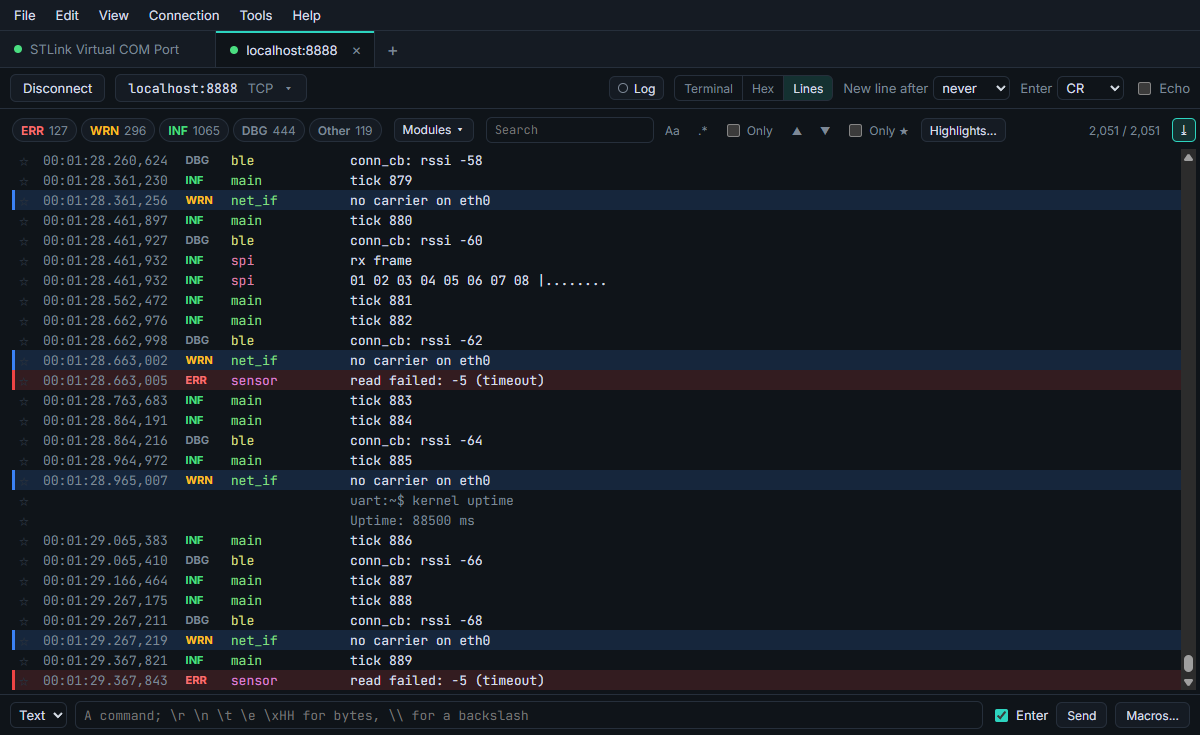
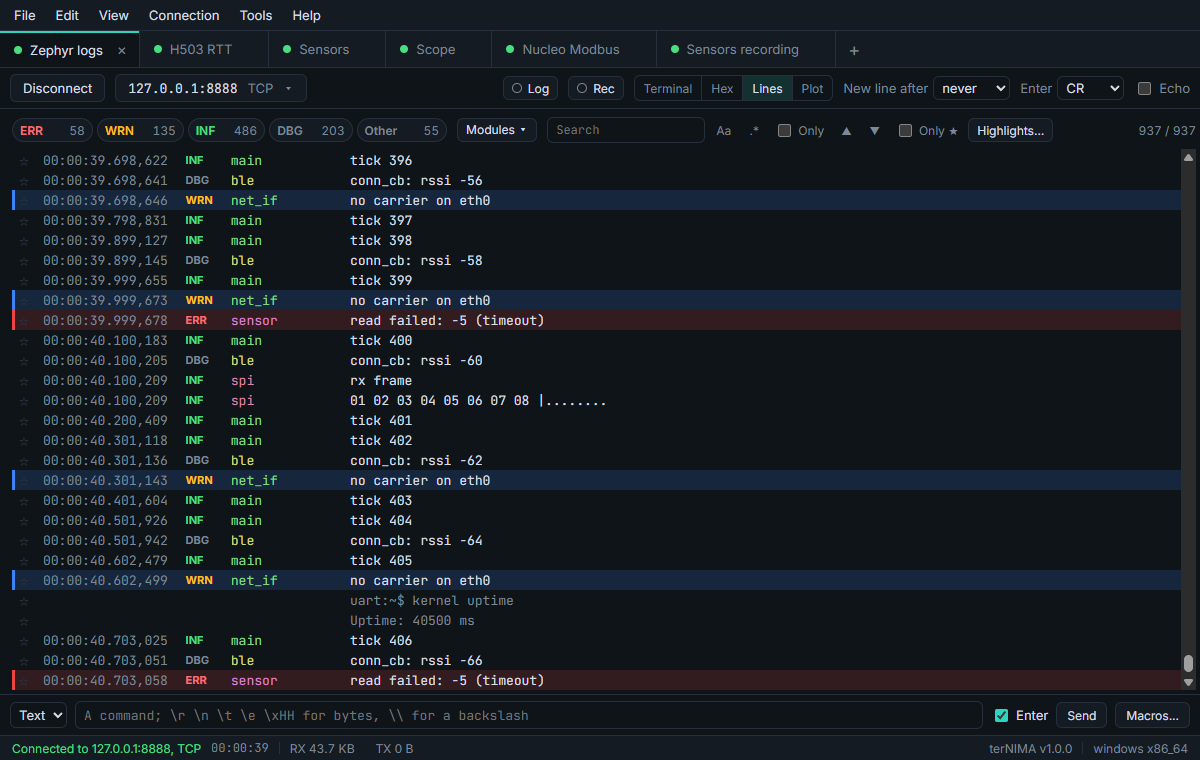
terNIMA's screenshots one after another, every 2 seconds
The one screenshot of terNIMA is seven now, all from 1.0.0 with the same
tabs: Zephyr logs, RTT on an STM32H503, a live plot, an FFT, the Modbus
Tester and Traffic, and a recording played back. The next one fades in
every 2 seconds, each with its caption; dots go to any of them and a
button pauses them. They hold while the pointer or the keyboard is on
them and while they are off screen, and start paused for those who ask
for less motion. Without JavaScript the first one stays.

diff --git a/assets/site.js b/assets/site.js
@@ -1,9 +1,10 @@
 /*
  * nimaltd.github.io: the theme switch, the menu on phones, the platform
- * picker, the copy buttons, terNIMA's download for this computer, and live
- * numbers and links from GitHub. The page works without any of it: every
- * platform is then listed one under another, and the numbers and the
- * download links in the HTML stay as they are.
+ * picker, the copy buttons, terNIMA's screenshots one after another and its
+ * download for this computer, and live numbers and links from GitHub. The
+ * page works without any of it: every platform is then listed one under
+ * another, the first screenshot stays, and the numbers and the download
+ * links in the HTML stay as they are.
  */
 
 (function () {
@@ -185,6 +186,89 @@
       say("Could not copy. Select the text instead.");
     });
   });
+
+  /* ---------------------------------------------------------------------- */
+  /* terNIMA's screenshots: the next one every 2 seconds                    */
+  /* ---------------------------------------------------------------------- */
+
+  var SLIDE_MS = 2000;
+  var shots = document.getElementById("shots");
+
+  if (shots) {
+    var slides = Array.prototype.slice.call(shots.querySelectorAll(".slide"));
+    var slideCaption = shots.querySelector(".slide-caption");
+    var slideTools = shots.querySelector(".slide-tools");
+    var current = 0;
+    var slideTimer = 0;
+    /* Paused by its button; from the start for those who ask for less motion. */
+    var paused = window.matchMedia && window.matchMedia("(prefers-reduced-motion: reduce)").matches;
+    /* Held while the pointer or the keyboard is on it, and while it is off screen. */
+    var hovered = false;
+    var focused = false;
+    var onScreen = true;
+
+    var dots = slides.map(function (slide, index) {
+      var dot = document.createElement("button");
+      dot.type = "button";
+      dot.className = "slide-dot";
+      dot.setAttribute("aria-label", "Show " + slide.getAttribute("data-caption"));
+      dot.addEventListener("click", function () {
+        show(index);
+        run();
+      });
+      slideTools.appendChild(dot);
+      return dot;
+    });
+
+    var pauseButton = document.createElement("button");
+    pauseButton.type = "button";
+    pauseButton.className = "slide-pause";
+    pauseButton.innerHTML = '<svg class="ico"><use href="#i-pause"/></svg>';
+    pauseButton.addEventListener("click", function () {
+      paused = !paused;
+      showPaused();
+      run();
+    });
+    slideTools.appendChild(pauseButton);
+
+    function showPaused() {
+      pauseButton.setAttribute("aria-label", paused ? "Play the screenshots" : "Pause the screenshots");
+      pauseButton.querySelector("use").setAttribute("href", paused ? "#i-play" : "#i-pause");
+    }
+
+    function show(index) {
+      slides[current].classList.remove("on");
+      dots[current].removeAttribute("aria-current");
+      current = (index + slides.length) % slides.length;
+      slides[current].classList.add("on");
+      dots[current].setAttribute("aria-current", "true");
+      slideCaption.textContent = slides[current].getAttribute("data-caption");
+    }
+
+    /* Starts the clock again, if nothing holds it. */
+    function run() {
+      clearInterval(slideTimer);
+      if (!paused && !hovered && !focused && onScreen) {
+        slideTimer = setInterval(function () { show(current + 1); }, SLIDE_MS);
+      }
+    }
+
+    shots.addEventListener("mouseenter", function () { hovered = true; run(); });
+    shots.addEventListener("mouseleave", function () { hovered = false; run(); });
+    shots.addEventListener("focusin", function () { focused = true; run(); });
+    shots.addEventListener("focusout", function () { focused = false; run(); });
+
+    if (window.IntersectionObserver) {
+      new IntersectionObserver(function (entries) {
+        onScreen = entries[0].isIntersecting;
+        run();
+      }).observe(shots);
+    }
+
+    show(0);
+    showPaused();
+    run();
+  }
 
   /* ---------------------------------------------------------------------- */
   /* terNIMA: the download for this computer first                          */

diff --git a/index.html b/index.html
@@ -54,6 +54,8 @@
   <symbol id="i-activity" viewBox="0 0 24 24"><path d="M22 12h-4l-3 9L9 3l-3 9H2"/></symbol>
   <symbol id="i-binary" viewBox="0 0 24 24"><rect width="4" height="6" x="14" y="14" rx="2"/><rect width="4" height="6" x="6" y="4" rx="2"/><path d="M6 20h4M14 10h4M6 14h2v6M14 4h2v6"/></symbol>
   <symbol id="i-network" viewBox="0 0 24 24"><rect width="6" height="6" x="16" y="16" rx="1"/><rect width="6" height="6" x="2" y="16" rx="1"/><rect width="6" height="6" x="9" y="2" rx="1"/><path d="M5 16v-3a1 1 0 0 1 1-1h12a1 1 0 0 1 1 1v3M12 12V8"/></symbol>
+  <symbol id="i-pause" viewBox="0 0 24 24"><rect width="4" height="16" x="6" y="4" rx="1"/><rect width="4" height="16" x="14" y="4" rx="1"/></symbol>
+  <symbol id="i-play" viewBox="0 0 24 24"><path d="m6 3 14 9-14 9V3z"/></symbol>
   <symbol id="i-history" viewBox="0 0 24 24"><path d="M3 12a9 9 0 1 0 9-9 9.75 9.75 0 0 0-6.74 2.74L3 8"/><path d="M3 3v5h5M12 7v5l4 2"/></symbol>
 </svg>
 
@@ -258,9 +260,20 @@
     </div>
 
     <div class="tn">
-      <figure class="shot">
-        <img src="assets/ternima-logs.png" width="1200" height="735" alt="terNIMA showing Zephyr log lines, each with its time, level and module, the warnings and errors highlighted, and a count of each level above them" loading="lazy">
-        <figcaption>Zephyr logs, by level and module, with warnings and errors highlighted</figcaption>
+      <figure class="shot" id="shots" aria-roledescription="carousel" aria-label="terNIMA, feature by feature">
+        <div class="slides">
+          <img class="slide on" src="assets/ternima-logs.png" width="1200" height="760" loading="lazy" data-caption="Zephyr logs, by level and module, with highlights" alt="terNIMA's Lines view: Zephyr log lines, each with its time, level and module, the warnings and errors highlighted, and a count of each level above them">
+          <img class="slide" src="assets/ternima-rtt.png" width="1200" height="760" loading="lazy" data-caption="RTT through an ST-LINK, with no vendor software" alt="An RTT tab on an STM32H503RB through an ST-LINK: the firmware's shell, with help, colors and uptime typed into it">
+          <img class="slide" src="assets/ternima-plot.png" width="1200" height="760" loading="lazy" data-caption="A live plot of the numbers in the lines, with stats" alt="The Plot view: temperature, humidity, a sine and RSSI read from text lines and drawn over the last 10 seconds, with the last, min, max, mean and deviation of each">
+          <img class="slide" src="assets/ternima-fft.png" width="1200" height="760" loading="lazy" data-caption="FFT, with its peak; XY, histogram and a trigger too" alt="The Plot view's FFT: a signal's spectrum in dB, peaks at 50 and 120 Hz, the peak at 50 Hz named below">
+          <img class="slide" src="assets/ternima-modbus.png" width="1200" height="760" loading="lazy" data-caption="A Modbus RTU master, polling three units" alt="The Modbus view's Tester as a master on COM6: requests to units 1, 2 and 3 with what each got and how long it took, unit 3 with no answer, and the log of every frame below">
+          <img class="slide" src="assets/ternima-traffic.png" width="1200" height="760" loading="lazy" data-caption="Every Modbus frame, each response under its request" alt="The Modbus view's Traffic: each request with its response under it and the time it took, and the frame picked below with its bytes colored by part and each register's value">
+          <img class="slide" src="assets/ternima-replay.png" width="1200" height="760" loading="lazy" data-caption="A recording played back, with its timing" alt="A recording played back at its own speed, with Pause, Restart, the speed and the position, and its numbers drawn as they come">
+        </div>
+        <figcaption>
+          <span class="slide-caption">Zephyr logs, by level and module, with highlights</span>
+          <span class="slide-tools"></span>
+        </figcaption>
       </figure>
 
       <div class="get">

diff --git a/assets/site.css b/assets/site.css
@@ -242,8 +242,21 @@ h2 { margin: 0; font: 700 clamp(26px, 3.4vw, 34px)/1.2 var(--head); letter-spaci
 /* terNIMA */
 .tn { display: grid; grid-template-columns: minmax(0, 1.55fr) minmax(0, 1fr); gap: 16px; align-items: start; }
 .shot { margin: 0; border: 1px solid var(--line-2); border-radius: var(--radius); background: var(--panel); box-shadow: var(--shadow); overflow: hidden; }
-.shot img { width: 100%; height: auto; }
-.shot figcaption { padding: 10px 16px; border-top: 1px solid var(--line); font: 13px var(--mono); color: var(--muted); }
+/* The screenshots lie on one another, and the one shown fades in. */
+.slides { position: relative; aspect-ratio: 1200 / 760; background: #0d1117; }
+.slide { position: absolute; inset: 0; width: 100%; height: 100%; opacity: 0; transition: opacity .45s ease; }
+.slide.on { opacity: 1; }
+.shot figcaption { display: flex; flex-wrap: wrap; align-items: center; justify-content: space-between; gap: 6px 14px; padding: 8px 10px 8px 16px; border-top: 1px solid var(--line); font: 13px var(--mono); color: var(--muted); }
+.slide-caption { min-width: 0; }
+.slide-tools { display: flex; align-items: center; gap: 2px; }
+.slide-tools:empty { display: none; }
+.slide-dot { display: grid; place-items: center; width: 24px; height: 24px; padding: 0; border: 0; border-radius: 6px; background: transparent; cursor: pointer; }
+.slide-dot::before { content: ""; width: 8px; height: 8px; border-radius: 50%; background: var(--line-2); transition: background-color .15s ease, transform .15s ease; }
+.slide-dot:hover::before { background: var(--muted); }
+.slide-dot[aria-current="true"]::before { background: var(--accent); transform: scale(1.3); }
+.slide-pause { display: grid; place-items: center; width: 28px; height: 28px; margin-left: 6px; padding: 0; border: 1px solid var(--line-2); border-radius: 6px; background: transparent; color: var(--muted); cursor: pointer; transition: color .15s ease, border-color .15s ease; }
+.slide-pause:hover { color: var(--accent); border-color: var(--accent); }
+.slide-pause .ico { width: 12px; height: 12px; fill: currentColor; stroke: none; }
 .get { padding: 24px; border: 1px solid var(--line-2); border-radius: var(--radius); background: var(--panel); box-shadow: var(--shadow); }
 .get-head { display: flex; justify-content: space-between; align-items: baseline; gap: 12px; }
 .get h3 { margin: 0; font: 600 21px var(--head); }
